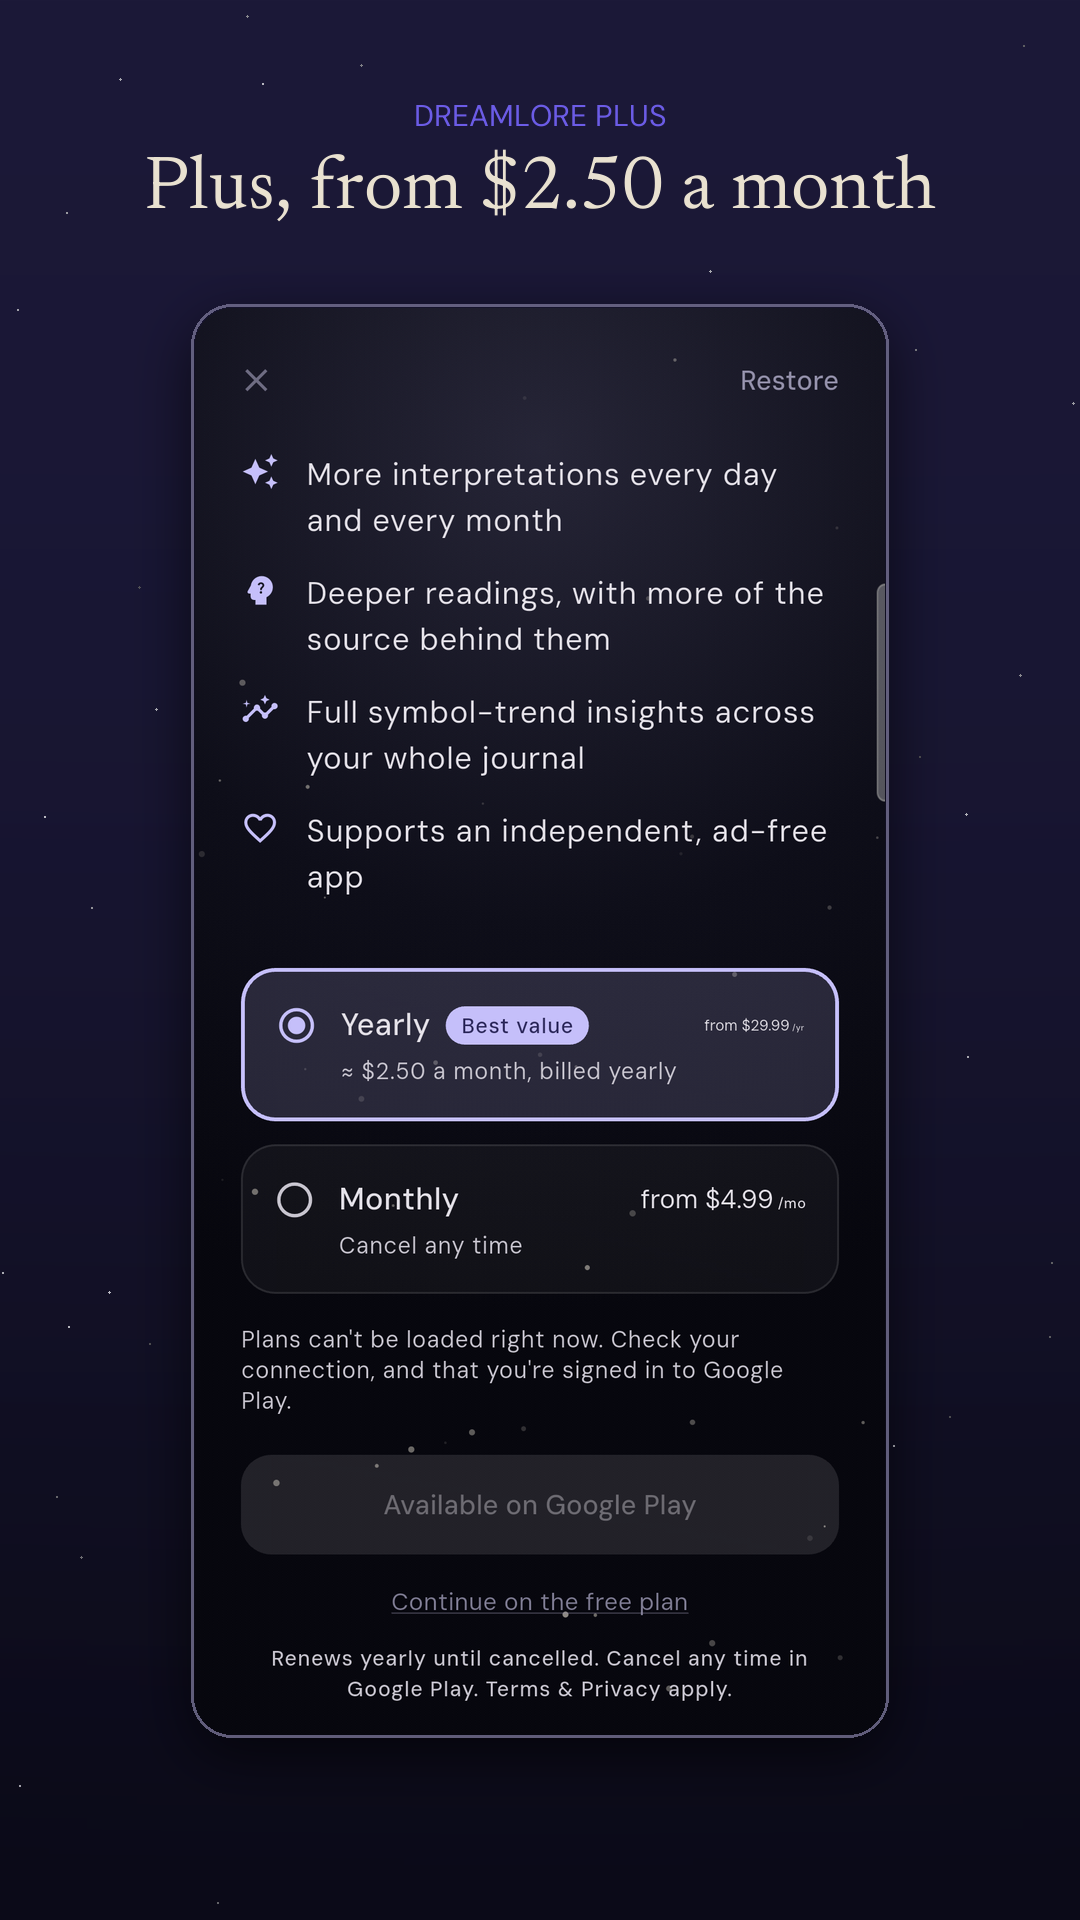
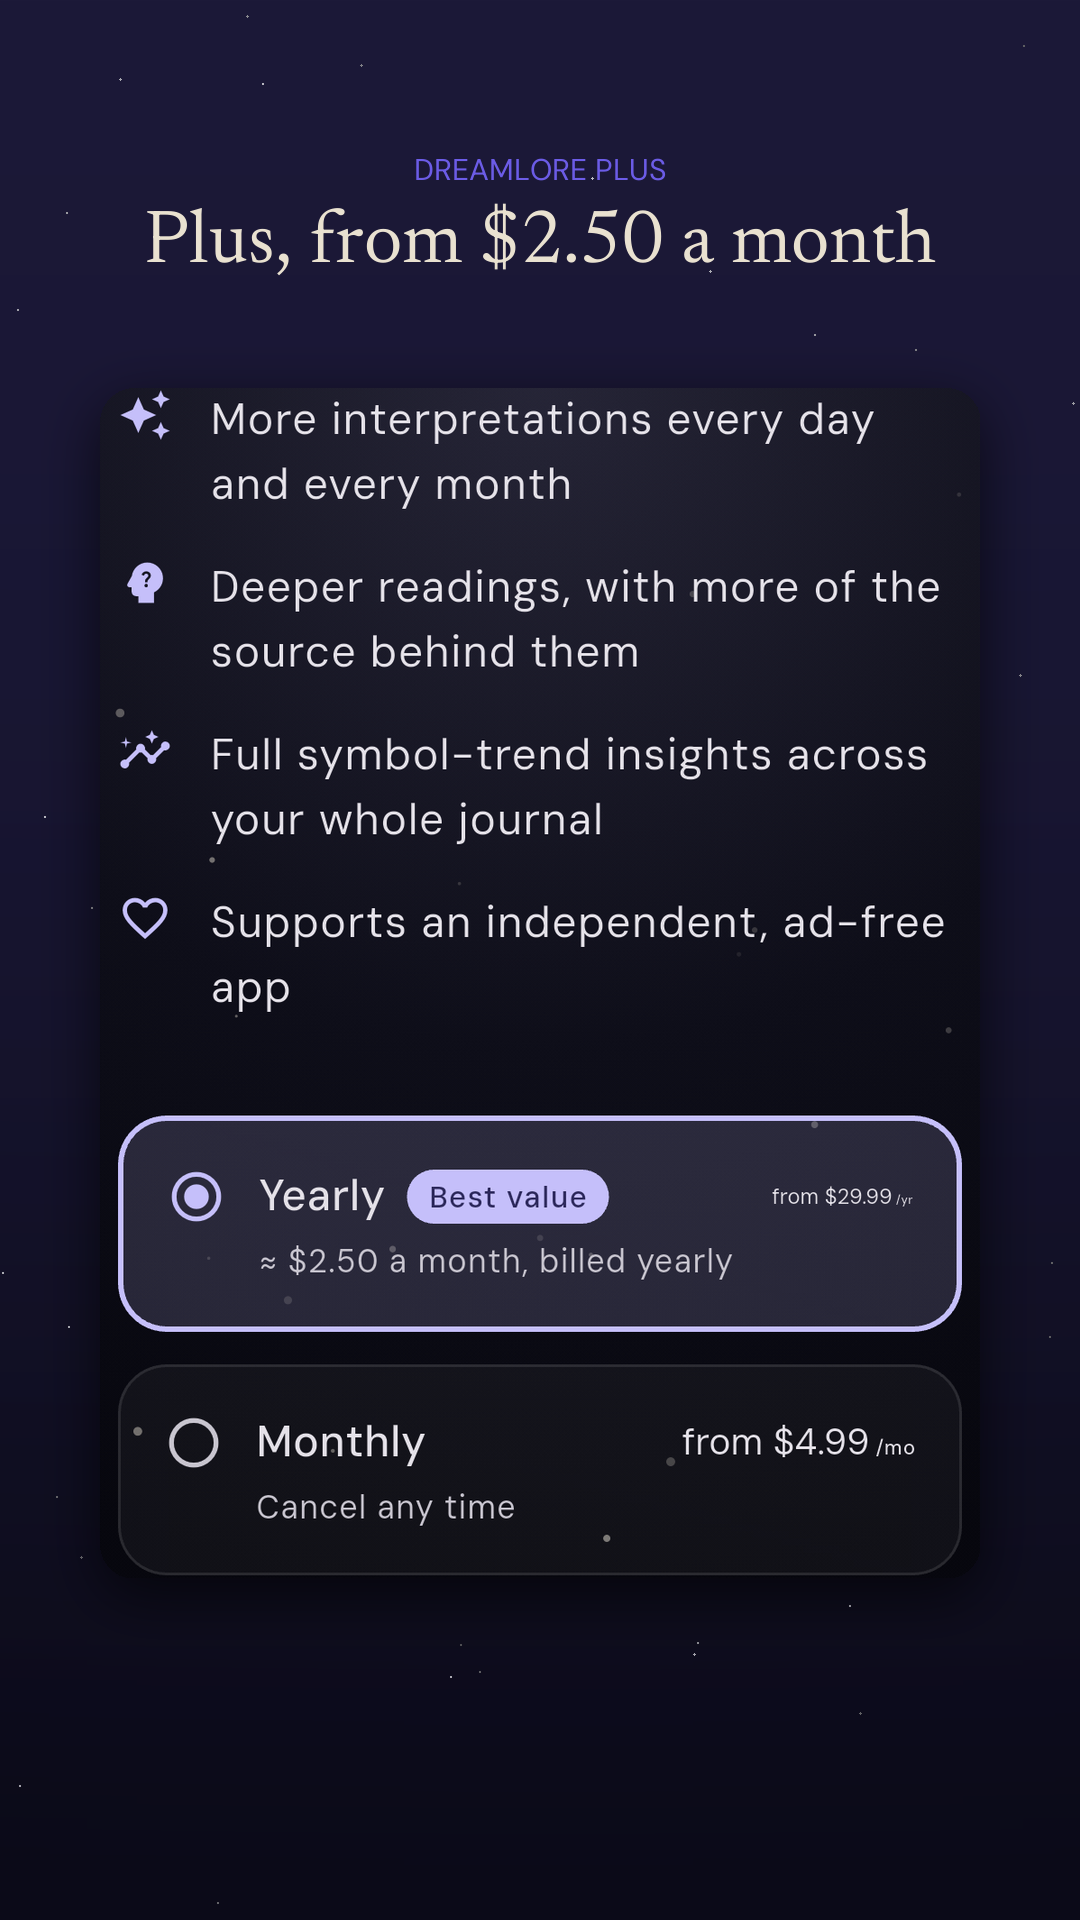
Reframe the Plus screenshot so no error notice reaches the store
The sideload's 'plans can't be loaded' notice sat directly under the plan
cards. That is real for a build installed outside Play and never true on
Play, but a store screenshot showing an error is worse than no screenshot,
so this frame is a cropped detail of the benefits and the two plans instead
of the whole screen. The README says to re-shoot it as a full phone once
Play returns real prices and the trial ribbon.

diff --git a/docs/store-assets/make_store.py b/docs/store-assets/make_store.py
@@ -135,18 +135,49 @@ def frame(out_name, shot, caption, eyebrow=None, dev_w=700, seed=7):
     print("wrote", out_name)
 
 
+def detail_frame(out_name, shot, caption, eyebrow, crop, seed=7):
+    """A cropped detail rather than a whole phone — used where the full screen
+    carries something that does not belong in a store frame (here, the
+    sideload's "plans unavailable" notice, which no Play build ever shows)."""
+    canvas = night(W, H, seed=seed).convert("RGBA")
+    d = ImageDraw.Draw(canvas)
+    f_cap = font("Newsreader.ttf", 76)
+    f_eye = font("DMSans.ttf", 30)
+
+    y = 150
+    tw = d.textlength(eyebrow, font=f_eye)
+    d.text(((W - tw) / 2, y), eyebrow, font=f_eye, fill=INDIGO)
+    y += 56
+    for ln in wrap(d, caption, f_cap, W - 150):
+        tw = d.textlength(ln, font=f_cap)
+        d.text(((W - tw) / 2, y), ln, font=f_cap, fill=PARCH)
+        y += 92
+
+    im = Image.open(os.path.join(RAW, shot)).convert("RGB").crop(crop)
+    target_w = 880
+    h = int(target_w * im.height / im.width)
+    im = im.resize((target_w, h), Image.LANCZOS)
+    card = rounded(im, 34)
+    shadow_paste(canvas, card, ((W - target_w) // 2, y + 90))
+    canvas.convert("RGB").save(os.path.join(OUT, out_name), quality=95)
+    print("wrote", out_name)
+
+
 FRAMES = [
     ("01_speak.png", "f1_listening.png", "Speak it before it fades", "VOICE, ON WAKING", 690, 3),
     ("02_reading.png", "f2_quotes.png", "A reading that quotes real books", "GROUNDED, NOT GUESSED", 690, 11),
     ("03_painted.png", "f3_picture.png", "See your dream, painted", None, 800, 5),
     ("04_journal.png", "f4_journal.png", "A private dream diary", "STAYS ON YOUR PHONE", 690, 19),
     ("05_patterns.png", "f5_insights.png", "Watch the patterns surface", "NIGHT AFTER NIGHT", 690, 23),
-    ("06_plus.png", "f6_paywall.png", "Plus, from $2.50 a month", "DREAMLORE PLUS", 690, 29),
     ("07_private.png", "f7_privacy.png", "No account. Nothing uploaded.", "PRIVATE BY DEFAULT", 690, 31),
 ]
 
 for args in FRAMES:
     frame(*args)
+
+# The paywall as a detail: just the two plan cards.
+detail_frame("06_plus.png", "f6_paywall.png", "Plus, from $2.50 a month",
+             "DREAMLORE PLUS", (52, 300, 1028, 1620), seed=29)
 
 
 # ── Feature graphic: 1024×500, the one banner Play requires ────────────────

diff --git a/docs/store-assets/README.md b/docs/store-assets/README.md
@@ -38,12 +38,14 @@ own search indexing and every "is this app any good" glance both pick up.
 
 ## Two things to redo before you publish
 
-1. **`06_plus.png` should be re-shot from a Play build.** These were captured
-   from a sideloaded debug build, where Play returns no products — so the card
-   shows the fallback "from $29.99/yr" and **no 3-day trial ribbon**. Once the
-   subscriptions exist and you install from Internal Testing, retake this one
-   screen and the caption should become **"Try Plus free for 3 days"**, which
-   is the stronger line. Everything else on the frame is final.
+1. **`06_plus.png` should be re-shot from a Play build.** It was captured
+   from a sideload, where Play returns no products — so the cards show the
+   fallback "from $29.99/yr" and there is **no 3-day trial ribbon**. (The
+   frame is a cropped detail rather than a whole phone precisely because the
+   full screen carries a "plans can't be loaded" notice that no Play build
+   ever shows; it must not reach the store.) Once the subscriptions exist and
+   you install from Internal Testing, retake it as a normal phone frame and
+   change the caption to **"Try Plus free for 3 days"** — the stronger line.
 
 2. **The paintings in frames 3–5 came from the local mock**, not the real
    image model, so they are simpler than what ships. Retake 3, 4 and 5 against
